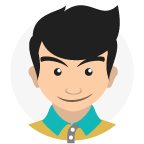
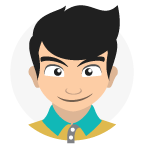
Greeting
added link to resume
updated face images
updated greetings
added mobile support

Changed region(s): [[0.5556, 0.4444, 0.7222, 0.5556], [0.3056, 0.4444, 0.4444, 0.5556]]

diff --git a/src/app/greeting/greeting.component.html b/src/app/greeting/greeting.component.html
@@ -1,15 +1,31 @@
-<div id="content-wrapper">
-	<div id="greeting-container">
-		<div id="picture-container" class="in-line" >
+<div fxLayout fxLayoutAlign="center center" id="content-wrapper" (click)='nextGreeting()'>
+	<div id="greeting-container" fxLayout fxLayout.xs="column" fxLayoutGap="32px">
+		<div id="picture-container" fxFlexAlign="end" fxFlexAlign.xs="center" fxFlexOrder="1" fxFlexOrder.xs="2">
 			<div class="face-pic" *ngFor='let greeting of greetingSet'>
-				<img id="greeting-image" [@fadeInOut]="greeting.state" *ngIf='greeting.state === "stated"' src={{faceImages[greetingSet[greetingIndex].faceId]}}/>
+				<img id="greeting-image" [@fadeInOut]="greeting.state"
+					*ngIf='greeting.state === "stated"'
+					src={{faceImages[greetingSet[greetingIndex].faceId]}} />
 			</div>
 		</div>
-		<div id="bubble-container" class="in-line" *ngIf='greetingStarted' (click)='nextGreeting()'>
-			<img id="greeting-bubble" src="assets/images/speech_bubble.png"/>
-			<div id="greeting-text-container" *ngFor='let greeting of greetingSet'>
-				<div class="greeting-text" [@flyInOut]="greeting.state" *ngIf='greeting.state === "stated"'>{{greeting.message}}</div>
+		<div id="bubble" fxLayout="column" fxFlexOrder="2" fxFlexOrder.xs="1">
+			<div id="bubble-container" *ngIf='greetingStarted'>
+				<div class="greeting-bubble" fxHide="false" fxHide.xs
+					(@bounceEmphasis.done)="bounceDown($event)"
+					[@bounceEmphasis]="bounceState">
+					<img id="greeting-bubble" src="assets/images/speech_bubble.png">
+				</div>
+				<div class="greeting-bubble" fxShow="false" fxShow.xs
+					(@bounceEmphasis.done)="bounceDown($event)"
+					[@bounceEmphasis]="bounceState">
+					<img id="greeting-bubble" src="assets/images/speech_bubble_mob.png">
+				</div>
+				<div id="greeting-text-container"
+					*ngFor='let greeting of greetingSet'>
+					<div class="greeting-text" [@flyInOut]="greeting.state"
+						*ngIf='greeting.state === "stated"' [innerHTML]="greeting.message"></div>
+				</div>
 			</div>
+			<div id="bubble-offseter" style="height: 72px" fxHide="false" fxHide.xs></div>
 		</div>
 	</div>
 </div>

diff --git a/src/app/greeting/greeting.component.ts b/src/app/greeting/greeting.component.ts
@@ -37,6 +37,15 @@ import 'rxjs/add/operator/map';
       transition('* => void', [
         animate('160ms 160ms', style({opacity: 0}))
       ])
+    ]), trigger('bounceEmphasis', [
+      state('base', style({transform: 'translateY(0)'})),
+      transition('base => apex', [
+        style({transform: 'translateY(-2%)'}),
+        animate('160ms ease-in')
+      ]),
+      transition('apex => base', [
+        animate('160ms ease-out', style({transform: 'translateY(0)'}))
+      ])
     ])]
 })
 
@@ -45,10 +54,13 @@ export class GreetingComponent implements OnInit {
   greetingStarted = false;
   greetingIndex = 0;
   greetingSet: Greeting[] = [new Greeting('', 1000, 0)];
+  bounceState = 'base';
 
   faceImages: string[] = ['assets/images/greeting_pic_00.png',
     'assets/images/greeting_pic_01.png',
-    'assets/images/greeting_pic_02.png'];
+    'assets/images/greeting_pic_02.png',
+    'assets/images/greeting_pic_03.png',
+    'assets/images/greeting_pic_04.png'];
 
   constructor(private greetingService: GreetingService) {
   }
@@ -65,9 +77,18 @@ export class GreetingComponent implements OnInit {
     if (this.greetingIndex >= this.greetingSet.length - 1) {
       return;
     }
+    this.bounceUp();
     this.greetingSet[this.greetingIndex].cycleState();
     this.greetingIndex = (this.greetingIndex + 1) % this.greetingSet.length;
     this.greetingSet[this.greetingIndex].cycleState();
+  }
+
+  bounceUp() {
+    this.bounceState = 'apex';
+  }
+
+  bounceDown() {
+    this.bounceState = 'base';
   }
 
 }

diff --git a/src/app/greeting/greeting.component.css b/src/app/greeting/greeting.component.css
@@ -7,21 +7,9 @@
 	text-align: center;
 }
 
-#content-wrapper:before {
-    content: ' ';
-    display: inline-block;
-    vertical-align: middle;
-    height: 100%;
-}
-
-#greeting-container {
-	display: inline-block;
-	vertical-align: middle;
-}
-
 #picture-container {
-	width: 128px;
-	height: 128px;
+	width: 144px;
+	height: 144px;
 }
 
 .face-pic {
@@ -30,11 +18,6 @@
 
 #bubble-container {
 	position: relative;
-	margin-left: 32px;
-}
-
-#bubble-container img {
-	padding-bottom: 72px;
 }
 
 #greeting-text-container {
@@ -48,7 +31,13 @@
 
 .greeting-text {
 	text-align: center;
-	color: #52c1b2;
+	color: #deb94e;
 	font-family: 'Source Sans Pro', sans-serif;
 	font-size: 2em;
+}
+
+:host ::ng-deep a {
+	text-decoration: none;
+	color: #56b78d;
+	font-weight: bold;
 }

diff --git a/src/app/app.module.ts b/src/app/app.module.ts
@@ -2,6 +2,7 @@ import { BrowserModule } from '@angular/platform-browser';
 import { NgModule } from '@angular/core';
 import { HttpClientModule } from '@angular/common/http';
 import { BrowserAnimationsModule } from '@angular/platform-browser/animations';
+import {FlexLayoutModule} from '@angular/flex-layout';
 
 import { AppComponent } from './app.component';
 import { GreetingComponent } from './greeting/greeting.component';
@@ -14,7 +15,8 @@ import { GreetingComponent } from './greeting/greeting.component';
   imports: [
     BrowserModule,
     BrowserAnimationsModule,
-    HttpClientModule
+    HttpClientModule,
+    FlexLayoutModule
   ],
   providers: [],
   bootstrap: [AppComponent]

diff --git a/src/index.html b/src/index.html
@@ -2,7 +2,7 @@
 <html lang="en">
 <head>
   <meta charset="utf-8">
-  <title>AmielRevecheClientApp</title>
+  <title>Amiel Reveche</title>
   <base href="/">
 
   <meta name="viewport" content="width=device-width, initial-scale=1">
